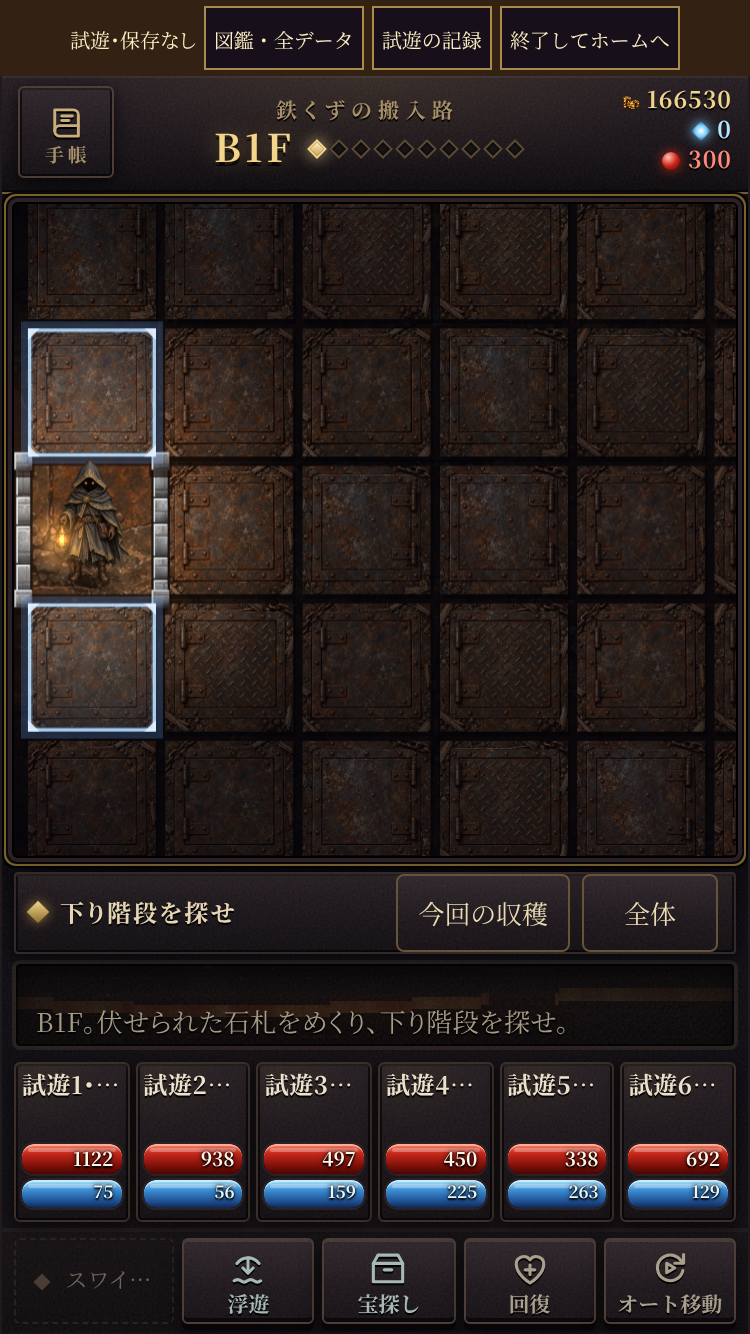
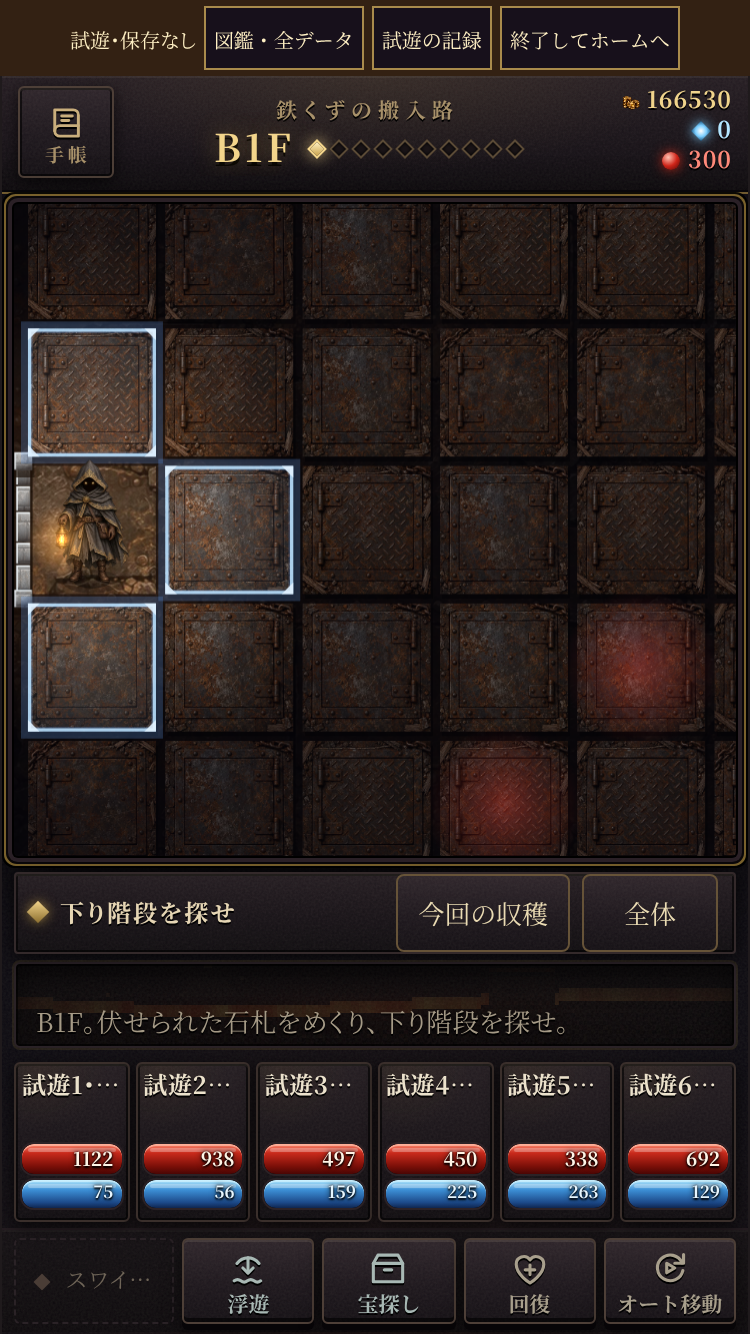
最新mainとの統合後に探索盤面141項目を再確認

diff --git a/docs/art/dungeons/chapter13.md b/docs/art/dungeons/chapter13.md
@@ -15,7 +15,7 @@
 
 制作指示は、真上からの正投影・文字や記号なし・人物なし・境界のない3列2段の素材集、床は分割のない連続した一面とした。鋳型や継ぎ手は器を作る工房の部材で、魂を鉄の材料として描かない。蓋の形は中身と無関係。人物・小物は共通原画、熱い床・焼き入れの水・荷の落とし口は既存の仕掛け表示を重ねる。
 
-配信は品質88のWebP12枚、計6.60MiB。原画・制作記録・確認画像は公開物に含めない。公開物は約367MiB。`sw.js` のASSETSに全12枚を登録し、キャッシュ版は `dos-dev` を維持。酒場の心得 `t_forge_stonework` を追加。
+配信は品質88のWebP12枚、計6.60MiB。原画・制作記録・確認画像は公開物に含めない。公開物は約369MiB。`sw.js` のASSETSに全12枚を登録し、キャッシュ版は `dos-dev` を維持。酒場の心得 `t_forge_stonework` を追加。
 
 再生成・確認:
 
@@ -25,7 +25,7 @@ python3 -m http.server 8000 --bind 127.0.0.1
 NODE_PATH=/opt/codex/runtimes/cua/lib/node_modules CRYPT_REVIEW_OUT=docs/art/dungeons/review-chapter13 node tools/crypt/verify-dungeons.cjs w50 w51 w52 w53 ws28 ws29
 ```
 
-ローカルChromiumで141項目成功。対象全65階と地下墓地、320/390/600/1280px幅、横向き、取得失敗・片方の失敗・寸法不正・遅延、タップ・蓋めくり・ドラッグ・全体表示、遊びの乱数保持、蓋が中身を示さないこと、危険な床、対象外の迷宮、キャッシュ上限を確認。実機での速度測定は含まない。JS構文・差分の空白・画像寸法・ASSETSの全ファイルの存在と新規画像の重複登録がないことも確認。
+最新main（85912301、戦闘背景・出撃画面・依頼人肖像を含む）との統合後もローカルChromiumで141項目成功。対象全65階と地下墓地、320/390/600/1280px幅、横向き、取得失敗・片方の失敗・寸法不正・遅延、タップ・蓋めくり・ドラッグ・全体表示、遊びの乱数保持、蓋が中身を示さないこと、危険な床、対象外の迷宮、キャッシュ上限を確認。実機での速度測定は含まない。JS構文・差分の空白・画像寸法・ASSETSの全ファイルの存在と新規画像の重複登録がないことも確認。
 
 検査結果: [checks.json](review-chapter13/checks.json)。下の見本は左上から w50 / w51 / w52 / w53 / ws28 / ws29。
 
